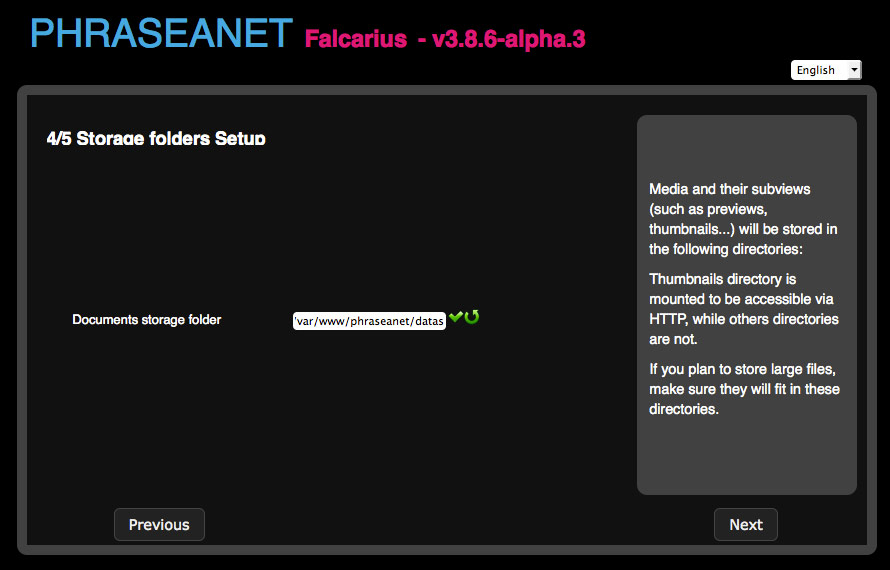
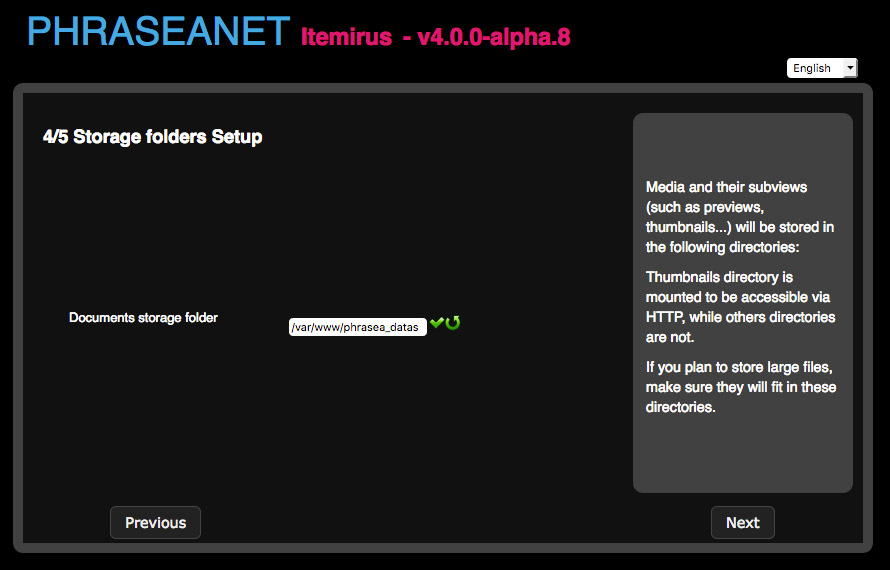
EN Install instructions for 4.0

diff --git a/en/Admin/Install.rst b/en/Admin/Install.rst
@@ -36,6 +36,18 @@ to be corrected to install successfully the application.
     See the page dedicated to commandline applications
     :doc:`Setup and Console <Console>`
 
+.. note::
+
+    If non packaged sources are used to install Phraseanet (for example those
+    from the GitHub project repository) run the *make* command for the
+    installation directory.
+
+    .. code-block:: bash
+
+     make
+
+
+
 Web server configuration
 ------------------------
 
@@ -131,8 +143,36 @@ The installation process starts.
   .. image:: ../images/Admin_Install_cli-02.jpg
     :align: center
 
-To make the system operational, it is necessary to
-:ref:`start the tasks manager <start-tasks>`.
+.. note::
+
+    The build-in sample configuration fill parameters for a local Elasticsearch
+    server using port 9200.
+
+    If necessary, edit the configuration file **config/configuration.yml** then
+    compile the modified configuration.
+
+    Please, have a look to :doc:`the Configuration page<Configuration>` for more
+    info.
+
+* **Create Elasticsearch index**
+
+.. code-block:: bash
+
+    bin/console s:i:c
+
+* **List Phrasenaet tasks**
+
+.. code-block:: bash
+
+    bin/console task-manager:task:list
+
+* **Start Scheduler** in a screen:
+
+.. code-block:: bash
+
+    bin/console task-manager:scheduler:run -vvv
+
+Phraseanet is now operational.
 
 .. _install-gui:
 
